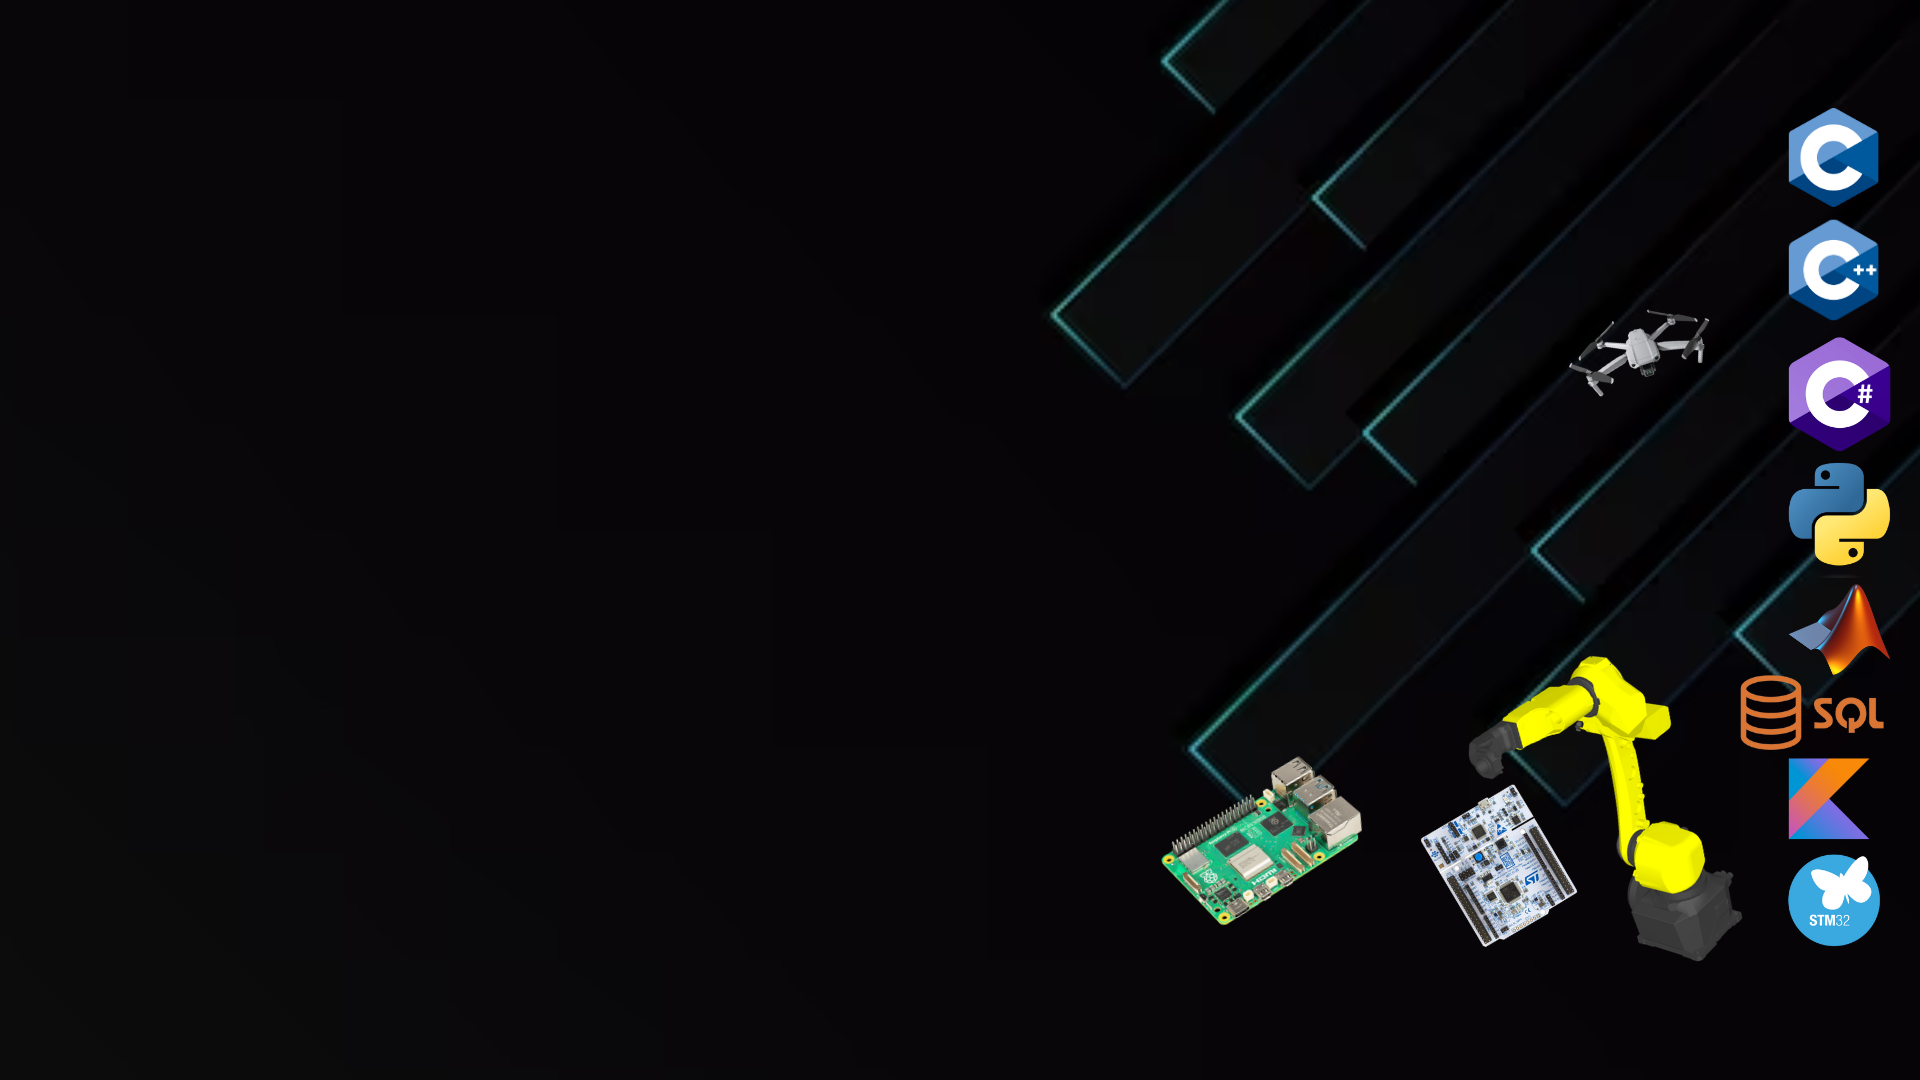
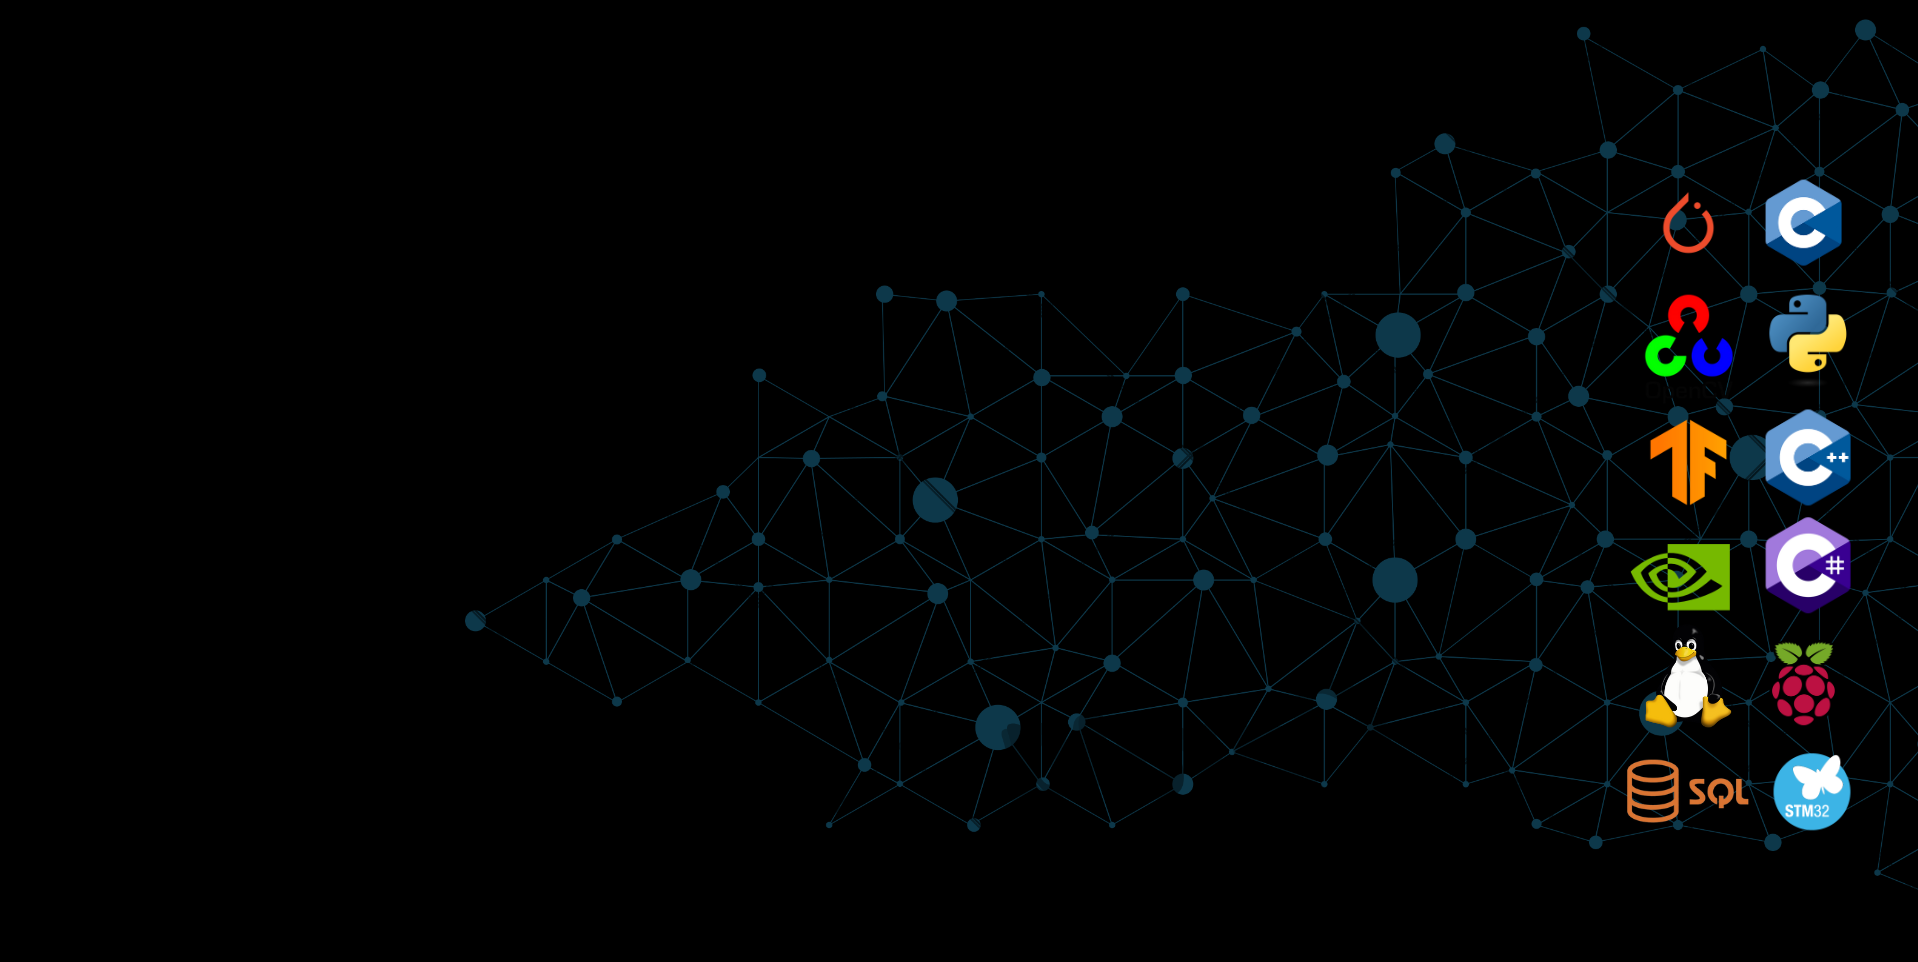
update 19-10-2024

diff --git a/index.html b/index.html
@@ -22,7 +22,7 @@
                     </ul>
                 </nav>
                 <div class="header-text">
-                    <p> Software Robotics Developer</p>
+                    <p> Software Developer in AI, Computer Vision and Robotics</p>
                     <h1> Hi, I'm <span> Sébastien Doyez</span>, <br> from Montréal</h1>
                 </div>
 
@@ -38,7 +38,7 @@
                     <div class="about-col-1"><img src="images/me.jpg"></div>
                     <div class="about-col-2">
                         <h1 class="sub-title">About me:</h1>
-                        <p>Passionate about engineering and cutting-edge technologies, I specialize in the fields of robotics and software. As a student of Polytech Montpellier (France), my academic journey has equipped me with a strong expertise in industrial computer sciences, robotics, microelectronics and automation.
+                        <p>Passionate about engineering and cutting-edge technologies, I specialize in the fields of AI, software development and robotics. As a student of Polytech Montpellier (France), my academic journey has equipped me with a strong expertise in industrial computer sciences, robotics, microelectronics and automation.
 
                             My commitment to innovation is reflected in my projects, academic or personal, which I share on my personal Github. These projects demonstrate my ability to design, develop and implement efficient and innovative technological solutions.
                             
@@ -53,8 +53,9 @@
                             </div>
                         <div class="tab-contents active-tab" id="skills">
                         <ul>
+                            <li><span>AI and Computer Vision</span><br> NVIDIA jetson, Deepstream, Gstreamer, Tensorflow, Pytorch, Roboflow, labelIMG, openCV</li>
                             <li><span>Software Developpement</span><br> C, C++, C#, Python, SQL, Matlab & Simulink</li>
-                            <li><span>Software Robotics</span><br> C# programming, use of TP and Karel programs from Fanuc </li>
+                            <li><span>Software Robotics</span><br> C# programming, TP and Karel programs from Fanuc </li>
                             <li><span>Embedded Systems </span><br> STM32, Arduino, Raspberry Pi, Teensy</li>
                             <li><span>Automation Developpement</span><br> Twincat (Beckhoff), Sysmac (Omron) </li>
                         </ul>
@@ -62,7 +63,8 @@
 
                         <div class="tab-contents" id="experience">
                             <ul>
-                                <li><span>From March 2024 to now:</span><br>R&D intern in software robotics at SAMI Agtech, Montréal </li>
+                                <li><span>From October 2024 to now:</span><br>AI, computer vision and robotics software developer at SERVOROBOT, St Bruno (QC) </li>
+                                <li><span>From March 2024 to September 2024:</span><br>R&D intern in software robotics at SAMI Agtech, Montréal </li>
                                 <li><span>From June 2023 to September 2023:</span><br>Intern at ETS Montréal </li>
                                 <li><span>From June 2022 to July 2022:</span><br>Intern at Aide Automatismes (Automation company in France) </li>
                             </ul>
